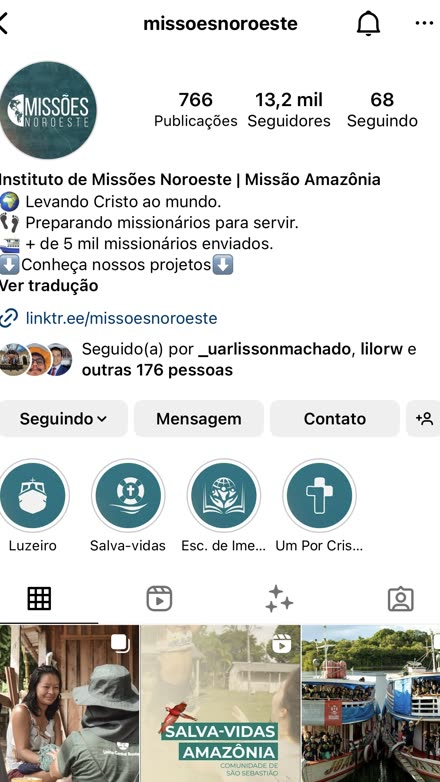
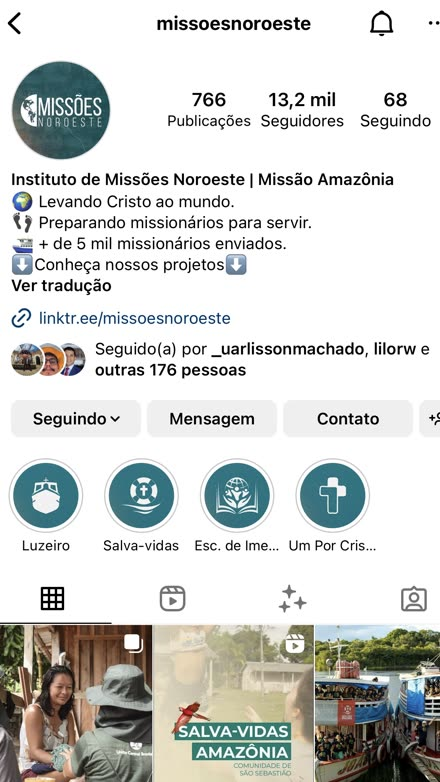
Desencosta a foto de perfil da @missoesnoroeste da borda esquerda
O corte tirava metade de cada lado, que é o reflexo de centralizar. Só que o
Instagram tem margem à esquerda e quase nada à direita, então a conta certa
não é a simétrica: a foto de perfil encostava na borda enquanto sobrava
espaço do outro lado. O corte passa de 54 para 20 e o cartão volta a começar
à mesma distância dos dois que usam a largura inteira do print — com "68
Seguindo" ainda inteiro na direita.

diff --git a/CLAUDE.md b/CLAUDE.md
@@ -71,8 +71,12 @@ ffmpeg -y -i PRINT.png -vf "crop=1242:2208:0:134,scale=440:-2" -q:v 4 assets/fot
 #   Quando o print JÁ vem recortado e não sobra margem acima do @, complete com
 #   branco antes de cortar. Duas armadilhas do filtro pad: as dimensões de saída
 #   precisam ser PARES (com largura ímpar ele recusa dizendo, enganosamente, que
-#   o destino é menor que a origem) e o deslocamento também.
-ffmpeg -y -i PRINT.jpeg -vf "pad=1242:2014:0:18:color=white,crop=1132:2012:54:0,scale=440:-2" -q:v 4 assets/fotos/perfil-N-depois.jpg
+#   o destino é menor que a origem) e o deslocamento também. E se o corte também
+#   estreitar a imagem, não centralize por reflexo: o Instagram tem margem à
+#   esquerda e quase nada à direita, então tirar metade de cada lado encosta a
+#   foto de perfil na borda. Puxe o corte para a esquerda (o x abaixo é 20, não
+#   os 54 do centro) e o cartão fica igual aos que usam a largura inteira.
+ffmpeg -y -i PRINT.jpeg -vf "pad=1242:2014:0:18:color=white,crop=1132:2012:20:0,scale=440:-2" -q:v 4 assets/fotos/perfil-N-depois.jpg
 
 # Foto de perfil do "Antes e depois": quadrado de 200px a partir de um print
 #   crop=menor lado, centralizado — o CSS mostra a 46px, então 200 cobre a tela retina
